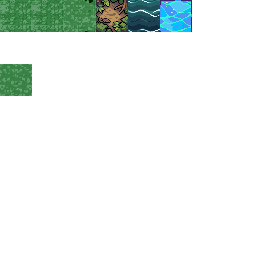
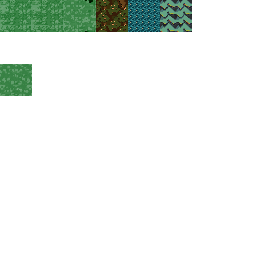
Give every forest/water hex real ground art, fix cursor-driven decor flicker
Forest and water hexes previously fell back to a flat procedural color
under their sparse decal stamps, so most of each tile's ground was still
unauthored flat fill. Wire forest-floor and water-deep/water-shallow into
the same full-hex fillRewildTerrainPattern path meadow already used, and
regenerate all three via PixelLab with explicit seamless-tiling prompts —
the previous forest-floor asset repeated as a visible basket-weave seam.

Also: three legacy decorative "tree"/"pine" world objects sat inside the
forest-west biome with collision footprints, silently blocking the new
per-hex forest tree overlay on ~9 of its hexes. Removed them (one generic
tree object relocated to open meadow to keep the tree-object render tests
meaningful) so every forest hex reliably gets its tree.

Separately, the live hover cursor was included in the overlay's blocked-hex
halo, so ground decor flickered in and out of every hex near the mouse as
it moved. Only actual placed objects should clear decor beneath them now.

Changed region(s): [[0.375, 0.0, 0.75, 0.125]]

diff --git a/app/rewild-production-renderer.ts b/app/rewild-production-renderer.ts
@@ -13,6 +13,7 @@ import {
   hexDistance,
   hexKey,
   hexLine,
+  hexNeighbors,
   hexPolygon,
   inspectHex,
   type BiomeRegion,
@@ -122,16 +123,6 @@ function hash(seed: number, salt: number) {
 
 function cellRandom(cell: HexCell, salt: number) {
   return hash(cell.seed, salt);
-}
-
-function bitCount(value: number) {
-  let count = 0;
-  let remaining = value;
-  while (remaining) {
-    count += remaining & 1;
-    remaining >>>= 1;
-  }
-  return count;
 }
 
 function pixelLine(ctx: CanvasRenderingContext2D, from: PixelPoint, to: PixelPoint, color: string, width = 2, step = 2) {
@@ -253,16 +244,24 @@ function drawGround(ctx: CanvasRenderingContext2D, snapshot: RenderSnapshot) {
   drawCompositionWash(ctx, state);
   drawConnectedBiomeGround(ctx, snapshot);
 
-  // Authored grass tiles are the actual ground here, drawn before any entity in the render
+  // Authored ground tiles are the actual ground here, drawn before any entity in the render
   // order (see renderOverheadGame) — units, plants, and enemies naturally paint on top of this
   // with no per-frame occupied/enemy exclusion needed, unlike the earlier overlay-pass attempt.
   const kinds = biomeKindByCell(state);
   const houseGround: HexCoord[] = [];
   for (const cell of state.world.cells.values()) {
     if (cell.surface === "house") houseGround.push(cell.hex);
+    if (cell.surface === "water") {
+      const exterior = hexNeighbors(cell.hex).filter((neighbor) => kinds.get(hexKey(neighbor)) !== "water").length;
+      fillRewildTerrainPattern(ctx, exterior === 0 ? "water-deep" : "water-shallow", hexPath(cell.hex, 1.04), PALETTE.water, 1);
+      continue;
+    }
     if (cell.surface !== "meadow" || cell.corruption !== 0) continue;
     const kind = kinds.get(hexKey(cell.hex));
-    if (kind === "forest" || kind === "water") continue;
+    if (kind === "forest") {
+      fillRewildTerrainPattern(ctx, "forest-floor", hexPath(cell.hex, 1.04), PALETTE.forest, 1);
+      continue;
+    }
     const variant = GRASS_VARIANTS[Math.min(GRASS_VARIANTS.length - 1, Math.floor(cellRandom(cell, 301) * GRASS_VARIANTS.length))];
     fillRewildTerrainPattern(ctx, variant, hexPath(cell.hex, 1.04), PALETTE.meadow, 1);
   }
@@ -346,30 +345,11 @@ function drawCorruptionTransition(ctx: CanvasRenderingContext2D, state: GameStat
   }
 }
 
+// The water tile itself is drawn once, in drawGround, using real water-deep/water-shallow v4
+// pixel art. This pass only draws the region's shoreline outline plus the overlay's own lily
+// pads/reeds (drawWaterEdges in rewild-authored-overlay.ts) — it must not also place its own
+// procedural fill or lily sprite, or the tile art gets buried under an old flat overlay.
 function drawWater(ctx: CanvasRenderingContext2D, region: BiomeRegion, snapshot: RenderSnapshot) {
-  const state = snapshot.state;
-  const masks = snapshot.regionNeighborMasks.get(region.id) ?? new Map<string, number>();
-  for (const hex of region.cells) {
-    const cell = cellAt(state.world, hex);
-    if (!cell) continue;
-    const center = hexCenter(hex);
-    const neighbors = bitCount(masks.get(hexKey(hex)) ?? 0);
-    if (neighbors >= 5) {
-      ctx.globalAlpha = .48;
-      drawPixelDisc(ctx, center, 13, PALETTE.waterDeep);
-      ctx.globalAlpha = 1;
-    } else if (neighbors <= 3) {
-      ctx.globalAlpha = .32;
-      drawPixelDisc(ctx, center, 10, PALETTE.waterShallow);
-      ctx.globalAlpha = 1;
-    }
-    if (cellRandom(cell, 30) > .5) {
-      const y = Math.round(center.y + (cellRandom(cell, 31) - .5) * 10);
-      const half = 4 + Math.round(cellRandom(cell, 34) * 6);
-      pixelLine(ctx, { x: center.x - half, y }, { x: center.x + half, y }, PALETTE.waterLight, 1, 2);
-    }
-    if (neighbors <= 4 && cellRandom(cell, 32) > .91) drawRewildSprite(ctx, "water-lilies", center.x, center.y, { scale: .3, alpha: .72, flipX: cellRandom(cell, 33) > .5 });
-  }
   regionBoundarySegments(snapshot, region).forEach((edge, index) => {
     pixelLine(ctx, edge.from, edge.to, PALETTE.waterDeep, 4, 1);
     if (index % 2 === 0) pixelLine(ctx, edge.from, edge.to, PALETTE.shore, 2, 2);

diff --git a/app/rewild-authored-overlay.ts b/app/rewild-authored-overlay.ts
@@ -42,6 +42,10 @@ function biomeKindByCell(state: GameState) {
   return kinds;
 }
 
+// Deliberately excludes the live hover cursor: it moves every pointermove frame, and earlier
+// including it here made ground decor (trees, water edges, industrial/corruption stamps) flicker
+// in and out around the mouse as it moved. Only actual placed objects should clear decor beneath
+// them.
 function blockedHalo(snapshot: RenderSnapshot) {
   const blocked = new Set(snapshot.occupiedHexes);
   const addWithNeighbors = (hex: HexCoord) => {
@@ -51,7 +55,6 @@ function blockedHalo(snapshot: RenderSnapshot) {
   for (const plant of snapshot.state.plants) addWithNeighbors(plant);
   for (const enemy of snapshot.state.enemies) addWithNeighbors(enemy.hex);
   for (const node of snapshot.state.nodes) for (const hex of node.footprint) addWithNeighbors(hex);
-  addWithNeighbors(snapshot.state.cursor);
   return blocked;
 }
 
@@ -185,12 +188,10 @@ function drawWaterEdges(
     const exterior = hexNeighbors(cell.hex).filter((neighbor) => kinds.get(hexKey(neighbor)) !== "water");
     const center = hexCenter(cell.hex);
     if (!exterior.length) {
-      textureCell(ctx, cell, "water-deep", 1, 18);
       if (random(cell, 401) > .88) drawDetail(ctx, "detail-lily-pads-a", center.x, center.y, cell, 402, .92);
       continue;
     }
 
-    textureCell(ctx, cell, "water-shallow", 1, 18);
     const primary = exterior[Math.floor(random(cell, 404) * exterior.length)] ?? exterior[0];
     const shore = shorelinePoint(cell.hex, primary);
     if (random(cell, 405) > .38) drawDetail(ctx, "detail-reeds-a", shore.x, shore.y, cell, 406, .94);

diff --git a/app/rewild-world.ts b/app/rewild-world.ts
@@ -314,15 +314,12 @@ export function createHexWorld(seed = MAP_SEED): HexWorld {
     if (cell) cell.surface = "house";
   }
 
-  const forest = biomes.find((entry) => entry.id === "forest-west")!;
   const lake = biomes.find((entry) => entry.id === "lake-west")!;
   const objects: WorldObject[] = [
     object("house", "house", HOUSE_CENTER, HOUSE_FOOTPRINT, true),
-    object("tree-west-a", "tree", { q: 3, r: 3 }, hexDisk({ q: 3, r: 3 }, 1), true),
-    object("tree-west-b", "tree", { q: 6, r: 2 }, [{ q: 6, r: 2 }], true),
-    object("pine-west", "pine", { q: 8, r: 4 }, [{ q: 8, r: 4 }], true),
     object("pond-west", "pond", { q: 5, r: 8 }, lake.cells, true),
     object("rocks-ne", "rock", { q: 32, r: 3 }, [{ q: 32, r: 3 }], true),
+    object("tree-open-meadow", "tree", { q: 25, r: 6 }, [{ q: 25, r: 6 }], true),
     object("shrub-house", "shrub", { q: 8, r: 7 }),
     object("log-southwest", "log", { q: 4, r: 12 }),
     object("fence-house", "fence", { q: 11, r: 9 }),
@@ -330,7 +327,6 @@ export function createHexWorld(seed = MAP_SEED): HexWorld {
     object("ruin-mid", "ruin", { q: 19, r: 7 }, [{ q: 19, r: 7 }], true),
     object("flowers-house", "flowers", { q: 12, r: 5 }, biomes.find((entry) => entry.id === "flowers-house")!.cells),
   ];
-  void forest;
   return { seed, cells, objects, road, biomes };
 }
 
